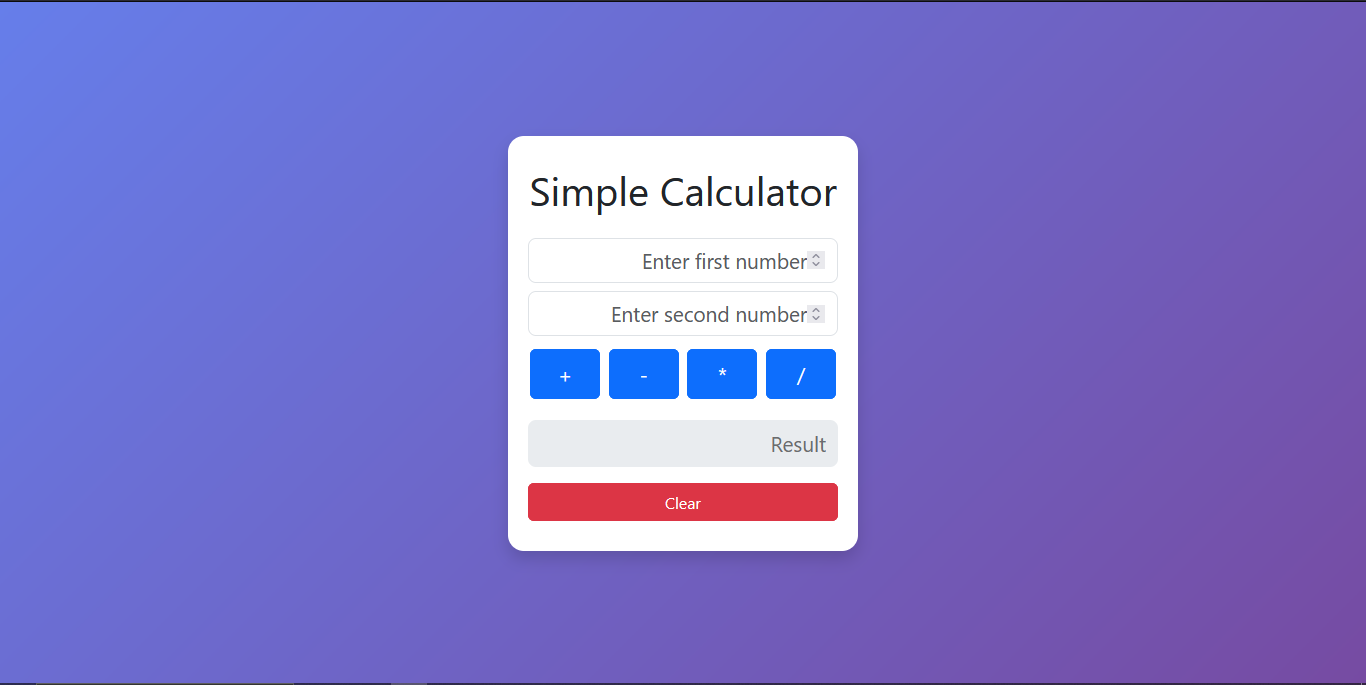
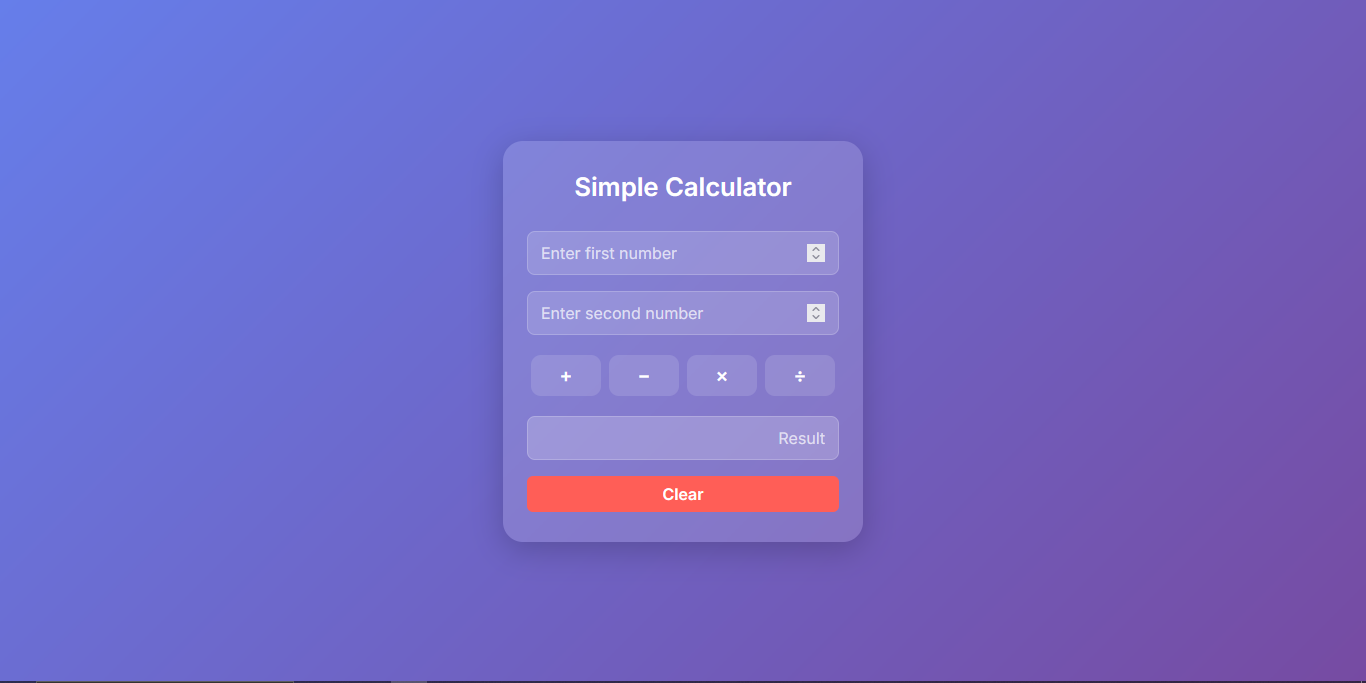
new ui

Changed region(s): [[0.369, 0.1845, 0.6457, 0.8302]]

diff --git a/index.html b/index.html
@@ -3,65 +3,119 @@
 <head>
   <meta charset="UTF-8" />
   <meta name="viewport" content="width=device-width, initial-scale=1.0"/>
-  <title>Simple Calculator</title>
+  <title>Modern Calculator</title>
   <link href="https://cdn.jsdelivr.net/npm/bootstrap@5.3.3/dist/css/bootstrap.min.css" rel="stylesheet">
   <style>
+    @import url('https://fonts.googleapis.com/css2?family=Inter:wght@400;600&display=swap');
+
     body {
+      font-family: 'Inter', sans-serif;
       min-height: 100vh;
-      background: linear-gradient(135deg, #667eea 0%, #764ba2 100%);
-      /* fallback for old browsers */
-      background-color: #667eea;
+      background: linear-gradient(135deg, #667eea, #764ba2);
       display: flex;
       align-items: center;
       justify-content: center;
+      margin: 0;
     }
+
     .calculator {
-      max-width: 350px;
-      margin: 60px auto;
-      padding: 30px 20px;
-      border-radius: 16px;
-      background: #fff;
-      box-shadow: 0 4px 24px rgba(0,0,0,0.12);
+      width: 100%;
+      max-width: 360px;
+      padding: 30px 24px;
+      border-radius: 20px;
+      background: rgba(255, 255, 255, 0.15);
+      box-shadow: 0 8px 32px rgba(0, 0, 0, 0.2);
+      backdrop-filter: blur(10px);
+      color: #fff;
     }
-    .calculator input[type="number"], .calculator input[type="text"] {
-      font-size: 1.3rem;
-      text-align: right;
-      margin-bottom: 15px;
-      border-radius: 8px;
+
+    .calculator h1 {
+      font-size: 1.6rem;
+      font-weight: 600;
+      margin-bottom: 1.8rem;
+      text-align: center;
     }
-    .btn-calc {
-      width: 70px;
-      height: 50px;
-      font-size: 1.3rem;
-      margin: 5px 2px;
-    }
+
+    .form-control,
     .result-box {
-      font-size: 1.3rem;
-      text-align: right;
-      background: #e9ecef;
+      font-size: 1rem;
+      padding: 10px 14px;
       border-radius: 8px;
-      margin-bottom: 15px;
-      padding: 8px 12px;
+      background-color: rgba(255, 255, 255, 0.15);
+      color: #fff;
       border: none;
+      box-shadow: inset 0 0 0 1px rgba(255, 255, 255, 0.2);
+      transition: all 0.3s ease;
+    }
+
+    .form-control::placeholder {
+      color: rgba(255, 255, 255, 0.7);
+    }
+
+    .form-control:focus {
+      outline: none;
+      background-color: rgba(255, 255, 255, 0.2);
+      box-shadow: 0 0 0 2px #fff;
+    }
+
+    .btn-calc {
+      flex: 1;
+      margin: 4px;
+      font-size: 1.2rem;
+      font-weight: bold;
+      border: none;
+      border-radius: 10px;
+      background-color: #ffffff22;
+      color: #fff;
+      transition: 0.3s ease;
+    }
+
+    .btn-calc:hover {
+      background-color: #ffffff44;
+      transform: scale(1.05);
+    }
+
+    .btn-danger {
+      background-color: #ff5e57;
+      border: none;
+      font-weight: 600;
+    }
+
+    .btn-danger:hover {
+      background-color: #ff3b30;
+    }
+
+    .result-box {
+      text-align: right;
+      background: rgba(255, 255, 255, 0.2);
+    }
+
+    @media (max-width: 400px) {
+      .btn-calc {
+        font-size: 1rem;
+      }
     }
   </style>
 </head>
 <body>
-  <div class="calculator shadow">
+  <div class="calculator">
     <form onsubmit="return false;">
-      <h1 class="text-center mb-4">Simple Calculator</h1>
-      <input type="number" id="num1" class="form-control mb-2" placeholder="Enter first number" required>
-      <input type="number" id="num2" class="form-control mb-2" placeholder="Enter second number" required>
-      <div class="d-flex justify-content-between mb-3">
-        <button type="button" class="btn btn-primary btn-calc" onclick="sum();">+</button>
-        <button type="button" class="btn btn-primary btn-calc" onclick="sub();">-</button>
-        <button type="button" class="btn btn-primary btn-calc" onclick="mul();">*</button>
-        <button type="button" class="btn btn-primary btn-calc" onclick="div();">/</button>
+      <h1>Simple Calculator</h1>
+      <input type="number" id="num1" class="form-control mb-3" placeholder="Enter first number" required>
+      <input type="number" id="num2" class="form-control mb-3" placeholder="Enter second number" required>
+
+      <div class="d-flex flex-wrap justify-content-between mb-3">
+        <button type="button" class="btn btn-calc" onclick="sum();">+</button>
+        <button type="button" class="btn btn-calc" onclick="sub();">−</button>
+        <button type="button" class="btn btn-calc" onclick="mul();">×</button>
+        <button type="button" class="btn btn-calc" onclick="div();">÷</button>
       </div>
-      <input type="text" id="result" class="result-box w-100 mb-3" placeholder="Result" readonly>
+
+      <input type="text" id="result" class="result-box form-control mb-3" placeholder="Result" readonly>
       <button type="button" class="btn btn-danger w-100" onclick="clearFields();">Clear</button>
     </form>
   </div>
+
   <script src="./script.js"></script>
 </body>
 </html>
